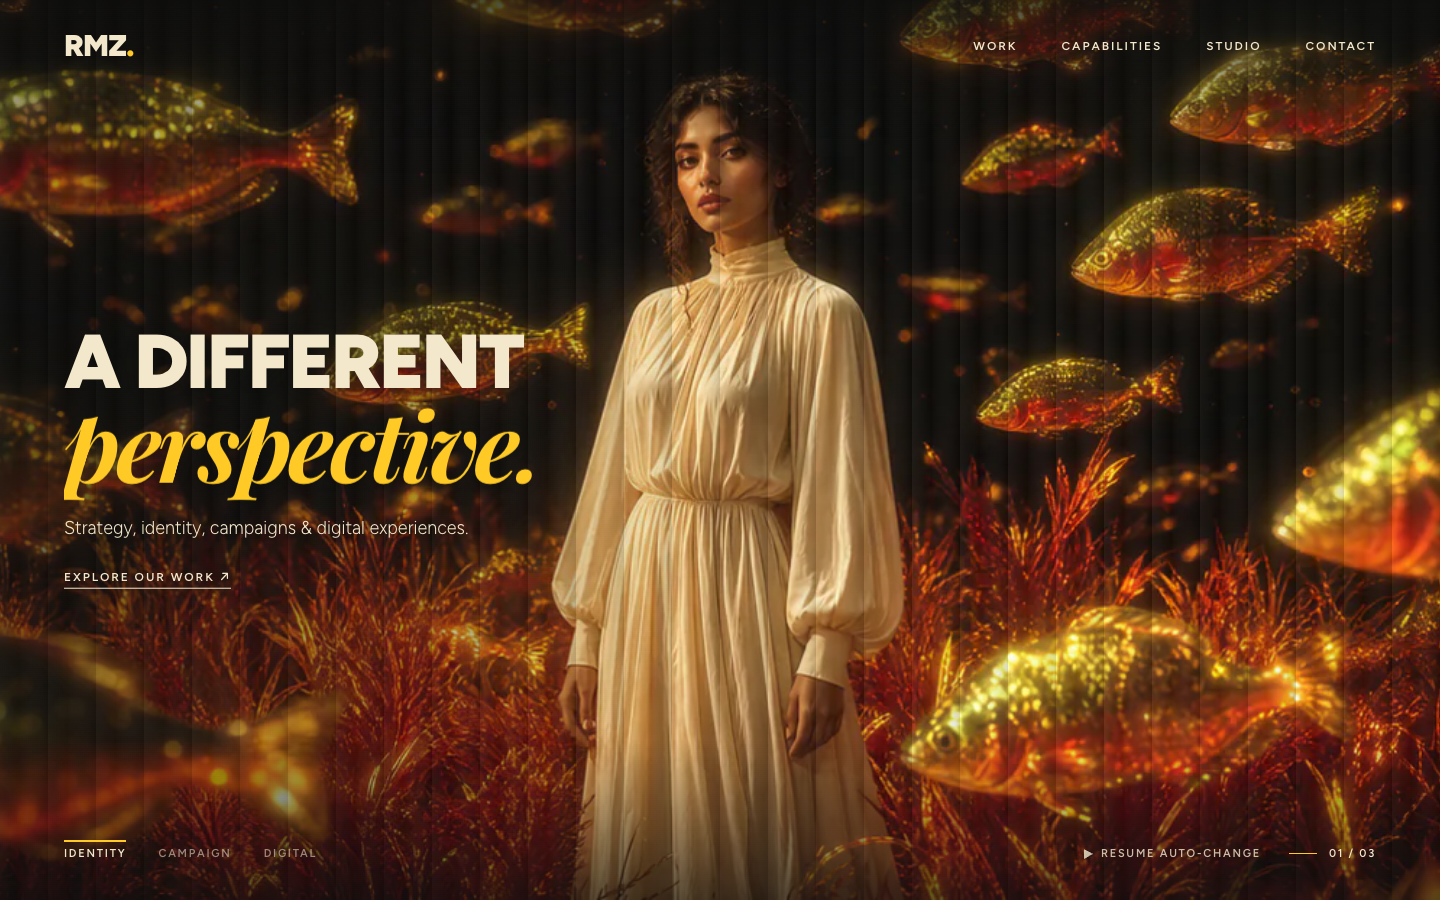
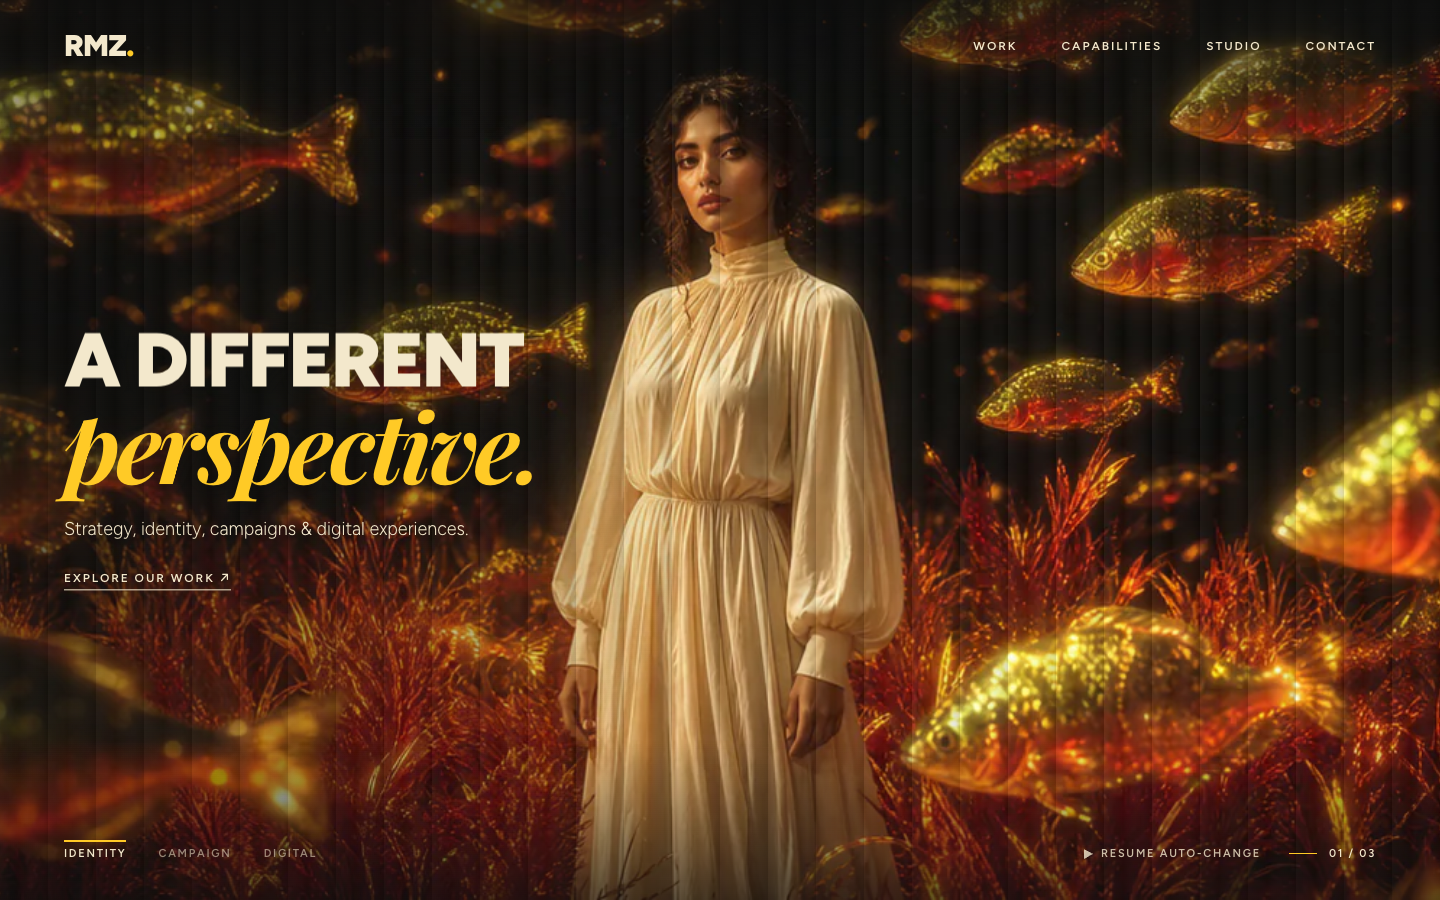
fix(lab): reveal mask has safe room on every side (italic overhang left/right/bottom), for any copy

diff --git a/src/components/home/hero-worlds/hero-worlds.css b/src/components/home/hero-worlds/hero-worlds.css
@@ -5,10 +5,10 @@
 .hw-phrases { display: grid; }
 .hw-phrase { grid-area: 1 / 1; visibility: hidden; }
 .hw-phrase[data-state="active"], .hw-phrase[data-state="out"] { visibility: visible; }
-.hw-line { display: block; overflow: hidden; padding-block: 0.06em; margin-block: -0.06em; } /* the mask */
+.hw-line { display: block; overflow: hidden; padding: 0.08em 0.35em 0.1em; margin: -0.08em -0.35em -0.1em; } /* the mask: room on every side for overhanging glyphs (any copy) */
 .hw-line > span { display: block; will-change: transform; }
 /* the italic line has descenders (p, g, y) that fall below its 0.9 line box: give its mask room so nothing is cut */
-.hw-line.t-italic { padding-block: 0.12em 0.32em; margin-block: -0.12em -0.32em; }
+.hw-line.t-italic { padding: 0.14em 0.35em 0.42em; margin: -0.14em -0.35em -0.42em; }
 
 /* Entrance / exit follow the prism turn (the ribs rotate over --hw-rot with a left→right stagger, so the left side where the text sits
    turns away first): the old phrase leaves while the left ribs are still turning away, the new phrase enters as the new face arrives. */
@@ -16,8 +16,8 @@
 .hw-phrase[data-state="out"] .hw-line > span { animation: hw-out var(--hw-out) cubic-bezier(.55,0,.8,.3) both; animation-delay: calc(var(--l) * 40ms); }
 /* the very first paint: no prism turn to wait for */
 .hw-root[data-boot="1"] .hw-phrase[data-state="active"] .hw-line > span { animation-delay: calc(250ms + var(--l) * 90ms); }
-@keyframes hw-in { from { transform: translateY(150%); } to { transform: none; } }
-@keyframes hw-out { from { transform: none; } to { transform: translateY(-150%); } }
+@keyframes hw-in { from { transform: translateY(190%); } to { transform: none; } }
+@keyframes hw-out { from { transform: none; } to { transform: translateY(-190%); } }
 /* a phrase that is the active one but not yet entered stays hidden under its mask (animation fill 'both' holds the 'from' keyframe during the delay) */
 
 .hw-fade-in { animation: hw-fade 700ms ease both; animation-delay: 300ms; }
